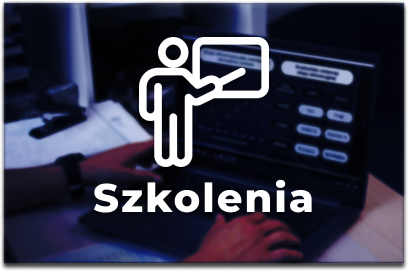
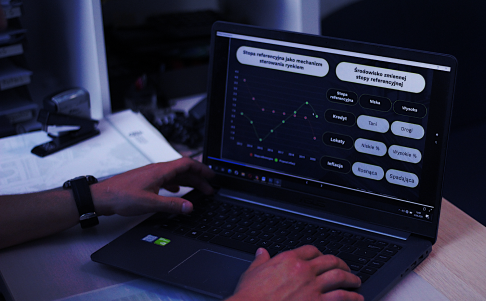
ic

diff --git a/index.html b/index.html
@@ -24,9 +24,10 @@
         </div>
 
         <main class="main">
- <!-- Start Header -->
-        <header>
+          <!-- Start Header -->
+          <header>
             <div class="container">
+            <div class="row">
                 <div class="brand-name">
                     <img onclick="openNav()" src="images/financialmil_biale_RGB-01.png" alt="">
                 </div>
@@ -39,15 +40,15 @@
                 </ul>
                 </div>
             </div>
-        </header>
-<!-- End Header -->
+            </div>
+          </header>
                 <div class="nav-right visible-xs">
-  <div class="button" id="btn">
-    <div class="bar top"></div>
-    <div class="bar middle"></div>
-    <div class="bar bott om"></div>
-  </div>
-</div>
+          <div class="button" id="btn">
+            <div class="bar top"></div>
+            <div class="bar middle"></div>
+            <div class="bar bott om"></div>
+          </div>
+        </div>
 <!-- nav-right -->
 
 
@@ -82,41 +83,7 @@
                       v-on:click="updateSlide(index)"></span>
             </div>
         </div>
-            </section>
-
-            <!-- <section class="latestposts">
-              <div class="containerCard">
-                <img src="images/books-2596809_1920.jpg" alt="" srcset="">
-                <div class="bodyCard">
-                  <h1>Edukacja</h1>
-                  <p>Nauka jest niezbędnym elementem rozwoju każdego z nas.  Staramy się przekazywać wiedzę w jasny i zrozumiały sposób, aby każdy z czytelników naszego bloga mógł rozwijać się razem z nami. Zachęcamy do komentowania naszych wpisów i wspólnej dyskusji. Każda interakcja z Waszej strony pomaga nam lepiej dopasować tematykę bloga.</p>
-                </div>
-              </div>
-
-              <div class="containerCard">
-                <div class="bodyCard">
-                  <h1 style="margin-top:-20px !important">E-learning</h1>
-                  <p>Najlepszym sposobem na przyswajanie wiedzy jest praktyka. Na organizowanych przez nas szkoleniach rozłożymy na czynniki pierwsze procesy jakie zachodzą na rynku finansowym. Chcemy poruszać ważne tematy, które dadzą naszym czytelnikom realną wartość, dlatego tematyka szkoleń będzie zależeć również od Was! Na stronie znajdziecie prezentacje oparte na mapach myśli, które naszym zdaniem pomagają w efektywnym zrozumieniu. Oprócz tego zapraszam was również do udziału w szkoleniach online lub stacjonarnych.</p>
-                </div>
-                <img src="images/e-learning-3734521_1920.jpg" alt="" srcset="">
-              </div>
-
-              <div class="containerCard">
-                <img src="images/change-4039486_1920.jpg" alt="" srcset="">
-                <div class="bodyCard">
-                  <h1>Bądź na bieżąco</h1>
-                  <p>Staramy się co jakiś czas odnosić nasze wpisy do sytuacji panującej na rynku. Wiemy jak wiele manipulacji znajduję się w mediach, dlatego naszym celem jest być obiektywnym w każdym temacie. Jeśli nie możemy być obiektywni to po prostu o tym napiszemy. Ważne jest dla nas jednak żebyś wyrażając swoje poglądy na dany temat znał perspektywę każdej ze stron.  </p>
-                </div>
-              </div>
-
-              <div class="containerCard">
-                <div class="bodyCard">
-                  <h1>Konsultacja</h1>
-                  <p>Marzenie to cel z datą realizacji. W pełni się z tym utożsamiamy i wiemy, że planując zwiększamy prawdopodobieństwo sukcesu. Jeśli coś cię nurtuję lub po prostu chcesz skorzystać z naszego wsparcia skontaktuj się z nami. Postaramy się pomóc sięgając po rozwiązania, które będą dla Ciebie w pełni dopasowane. </p>
-                </div>
-                <img src="images/pen-4850075_1920.jpg" alt="" srcset="">
-              </div>
-            </section> -->
+        </section>
 
             <section class="latestposts">
               <h1 class="latestposts-h1">Przewodnik</h1>
@@ -124,8 +91,7 @@
               <div class="flip-card" tabIndex="0">
                 <div class="flip-card-inner" style="background: url('images/main_1.png');">
                   <div class="flip-card-front">
-                    <!-- <img src="images/teacher 1.png" alt="">
-                    <h3>Edukacja</h3> -->
+                    <img src="images/main_text_1.png" alt="">
                   </div>
                   <div class="flip-card-back">
                     <h3>Edukacja</h3>
@@ -137,6 +103,7 @@
               <div class="flip-card" tabIndex="0">
                 <div class="flip-card-inner" style="background: url('images/main_2.png');">
                   <div class="flip-card-front" >
+                    <img src="images/main_text_2.png" alt="">
                   </div>
                   <div class="flip-card-back">
                     <h3>Szkolenia</h3>
@@ -148,6 +115,7 @@
               <div class="flip-card" tabIndex="0">
                 <div class="flip-card-inner" style="background: url('images/main_3.png');">
                   <div class="flip-card-front">
+                    <img src="images/main_text_3.png" alt="">
                   </div>
                   <div class="flip-card-back">
                     <h3>Współpraca</h3>
@@ -159,6 +127,7 @@
               <div class="flip-card" tabIndex="0">
                 <div class="flip-card-inner" style="background: url('images/main_4.png');">
                   <div class="flip-card-front">
+                    <img src="images/main_text_4.png" alt="">
                   </div>
                   <div class="flip-card-back">
                     <h3>Konsultacje</h3>
@@ -171,6 +140,7 @@
               <div class="flip-card" tabIndex="0">
                 <div class="flip-card-inner" style="background: url('images/main_5.png');">
                   <div class="flip-card-front">
+                    <img src="images/main_text_5.png" alt="">
                   </div>
                   <div class="flip-card-back">
                     <h3>O nas</h3>
@@ -183,6 +153,7 @@
               <div class="flip-card" tabIndex="0">
                 <div class="flip-card-inner" style="background: url('images/main_6.png');">
                   <div class="flip-card-front">
+                    <img src="images/main_text_6.png" alt="">
                   </div>
                   <div class="flip-card-back">
                     <h3>Wydarzenia</h3>

diff --git a/style.css b/style.css
@@ -1,8 +1,7 @@
 @import url("https://fonts.googleapis.com/css2?family=Roboto:wght@500&display=swap");
 @import url("https://fonts.googleapis.com/css2?family=Roboto+Condensed&display=swap");
 @import url("https://fonts.googleapis.com/css2?family=Lato&display=swap");
-@import url("https://fonts.googleapis.com/css2?family=Montserrat:wght@900&display=swap");
-@import url("https://fonts.googleapis.com/css2?family=Montserrat:wght@500&display=swap");
+@import url('https://fonts.googleapis.com/css2?family=Montserrat:wght@300;400;500;700;900&display=swap');
 
 html {
   box-sizing: border-box;
@@ -21,7 +20,6 @@ html {
   letter-spacing: 0.12rem;
   font-size: 0.7rem;
   line-height: 1;
-  margin-top:80px !important;
 }
 [v-cloak] {
   opacity: 0;
@@ -1042,6 +1040,17 @@ http://stackoverflow.com/a/34696029/383904
   margin-top: 70px;
 }
 
+.latestposts-h1 {
+    font-family: 'Montserrat';
+    font-style: normal;
+    font-weight: 900;
+    font-size: 70px;
+    text-align: center;
+    letter-spacing: 0.05em;
+    color: #2E3033;
+    padding-bottom: 50px;
+}
+
 .image-container {
   height: 100vh;
   width: 100vw;
@@ -1297,42 +1306,32 @@ p {
   text-shadow: 2px 2px 2px grey;
 }
 
-.latestposts-h1 {
-    font-family: 'Montserrat';
-    font-style: normal;
-    font-weight: 900;
-    font-size: 70px;
-    text-align: center;
-    letter-spacing: 0.05em;
-    color: #2E3033;
-    margin-bottom: 100px;
-    margin-left: 15px;
-}
-
 footer {
   margin-top: 50px !important;
 }
 .container-card {
-  width: 80%;
-  height: 1000px;
+  width: 87%;
+  height: 100%;
   display: flex;
   margin: 0 auto;
   flex-direction: row;
   flex-wrap: wrap;
   justify-content: space-between;
   align-items: space-between;
+  margin-bottom:250px;
 }
 .flip-card {
   background-color: transparent;
-  width: 400px;
+  flex-basis:30%;
   height: 260px;
   perspective: 1000px;
 }
 
 .flip-card-inner {
   position: relative;
-  width: 100%;
-  height: 100%;
+  flex-basis:30%;
+  width: 450px;
+  height: 280px;
   text-align: center;
   transition: transform 0.6s;
   transform-style: preserve-3d;
@@ -1357,10 +1356,8 @@ footer {
 }
 
 .flip-card-front {
-  -webkit-box-shadow: 0 2px 2px 0 rgba(0, 0, 0, 0.14),
-    0 1px 5px 0 rgba(0, 0, 0, 0.12), 0 3px 1px -2px rgba(0, 0, 0, 0.2);
-  box-shadow: 0 2px 2px 0 rgba(0, 0, 0, 0.14), 0 1px 5px 0 rgba(0, 0, 0, 0.12),
-    0 3px 1px -2px rgba(0, 0, 0, 0.2);
+  width:100%;
+  height: 100%;
   box-sizing: border-box;
   color: black !important;
   z-index: 2;
@@ -1369,50 +1366,42 @@ footer {
   align-items: center;
 }
 
-  .flip-card-front img {
-    width: 130px;
-    height: 130px;
-    margin-top: 20px;
-  }
-  
-  .flip-card-back {
-    background: #2E3033;
-    box-shadow: 0px 4px 4px rgba(0, 0, 0, 0.5);    
-    color: black;
-    transform: rotateY(180deg);
-    z-index: 1;
+.flip-card-front img {
+    width: 239px;
+    height: 192px;
 
-  }
+}
+
+.flip-card-back {
+  background:rgba(0, 0, 0, 0.8);
+  color: black;
+  transform: rotateY(180deg);
+  z-index: 1;
+  margin-left:3px;
+}
 
 .flip-card-back h3 {
+  margin-top: 70px;
   font-family: "Montserrat";
   font-style: normal;
-  font-weight: 800;
-  font-size: 40px;
-  line-height: 40px;
+  font-weight: bold;
+  font-size: 50px;
+  line-height: 61px;
   text-align: center;
   color: #ffffff;
-  letter-spacing: 0.05em;
 }
 
 .flip-card-back p {
   font-family: "Montserrat";
   font-style: normal;
   font-weight: 500;
-  font-size: 15px;
-  line-height: 20px;
+  font-size: 20px;
+  line-height: 31px;
   text-align: center;
   color: #ffffff;
-  width:90%;
-  margin-bottom: 20px;
 }
 
 .flip-card-front h3 {
-  width: 307px;
-  height: 78px;
-  left: 337px;
-  top: 226px;
-
   font-family: "Montserrat";
   font-style: normal;
   font-weight: bold;
@@ -1641,18 +1630,19 @@ form {
 
   .container-card {
     display: grid;
-    grid-template-columns: 1fr 1fr;
+    grid-template-columns: 1fr;
     grid-gap: 40px;
     margin-bottom: 70px;
+    height:2500px;
   }
 
   .flip-card {
     background-color: transparent;
     width: 550px;
     height: 400px;
+    margin:0 auto;
     perspective: 1000px;
-    width: 100%;
-    height: 100%;
+
   }
 
   .flip-card-front,

diff --git a/script.js b/script.js
@@ -72,19 +72,6 @@ mounted: function () {
 })
 
 
-// navbar
-
-const header = document.querySelector('header');
-
-const liNav = document.querySelectorAll('.liNav');
-const btnNav = document.querySelector('fa-bars');
-
-header.addEventListener('click', function() {
-    for (var i = 0; i < liNav.length; i++) {
-        liNav[i].classList.toggle("show");
-      }
-})
-
 // header fixed
 
 window.onscroll=function(){
